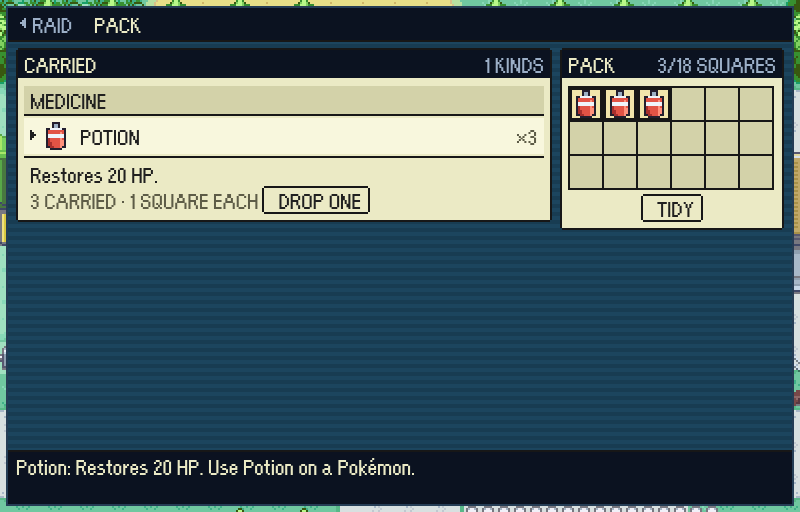
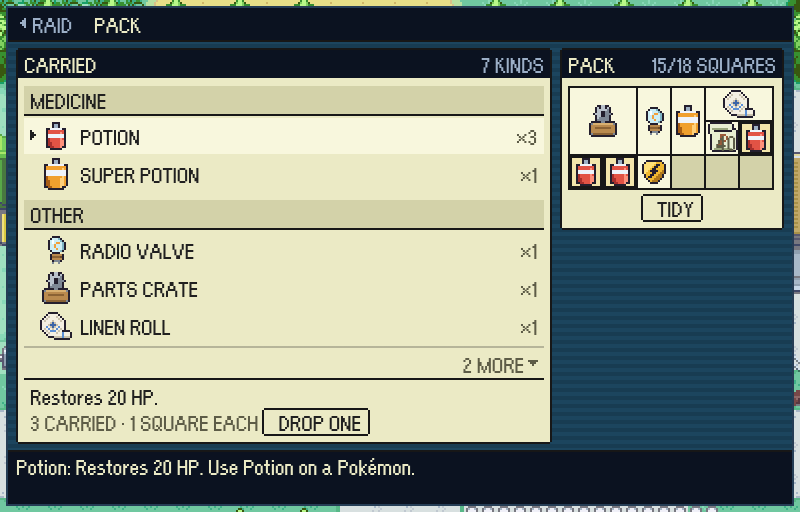
README: fuller pack shot, cleaner walk at 15fps, chase starts on screen, glossary headers, pitch wraps on phones

diff --git a/docs/readme/README.md b/docs/readme/README.md
@@ -13,11 +13,11 @@ number of screen pixels to the game pixel and stays sharp on a high-density disp
 |---|---|---|
 | `hero.svg` | The animated banner: Viridian City drifting by at dusk, the title plate, the raid clock gone red, and Blue chasing the player along the bottom | `tools/readme/drawArt.mjs` |
 | `cast.png` | The four keepers of the base and the five rivals, off the sheets the game draws them from | `tools/readme/drawArt.mjs` |
-| `walk.webp` | A walk down Viridian City's Main Street, one frame per 50ms of game time | `tools/playtest/readmeShots.mjs`, then ffmpeg |
+| `walk.webp` | A walk from the Pokemon Center up Main Street, fifteen frames a second of game time, ending where a townsperson steps into the lane | `tools/playtest/readmeShots.mjs`, then ffmpeg |
 | `raid.png`, `hunter.png`, `battle.png` | A raid in Viridian City, Blue arriving, and the fight he starts (1600x1024) | `readmeShots.mjs --window=1600x1024` |
 | `harbour.png` | The base with every one of Brock's upgrades built (1600x1024) | `readmeShots.mjs --part=base --window=1600x1024` |
 | `brocks-workshop.png` | Inside Brock's Workshop, every bay built (800x512) | `readmeShots.mjs --part=base --rooms=brocks-workshop` |
-| `loadout.png`, `pack.png` | Kitting up in Oak's Lab, and the pack opened mid-raid (800x512) | `readmeShots.mjs` |
+| `loadout.png`, `pack.png` | Kitting up in Oak's Lab, and the pack opened mid-raid with a few finds put in the raid's own bag first: a crate, a roll of linen, a valve, a Super Potion, a Thunder Stone and ₽40 (800x512) | `readmeShots.mjs` |
 | `map-maker.png` | The map maker with the sample map open at 1X (1600x1000) | `readmeShots.mjs --part=maker --window=1600x1000` |
 | `extracted.png`, `raid-lost.png` | The two ways a raid ends (800x512) | `tools/playtest/raid.mjs --pixels --stepped --window=800x512 --shot=...` (`--seed=3 --level=12` walked out; `--seed=7` went down) |
 
@@ -39,14 +39,14 @@ node tools/playtest/readmeShots.mjs "$URL" "$SCRATCH/big" --part=base --window=1
 node tools/playtest/readmeShots.mjs "$URL" "$SCRATCH/shots" --part=base --rooms=brocks-workshop
 node tools/playtest/readmeShots.mjs "$URL" "$SCRATCH/big" --part=maker --window=1600x1000
 
-# The walk, lossless, at the 20 frames a second it was photographed at.
-ffmpeg -framerate 20 -i "$SCRATCH/shots/frames/%03d.png" -c:v libwebp_anim -lossless 1 \
-  -compression_level 6 -loop 0 docs/readme/walk.webp
+# The walk, lossless, at the 15 frames a second it was photographed at.
+ffmpeg -framerate 15 -i "$SCRATCH/shots/frames/%03d.png" -c:v libwebp_anim -lossless 1 \
+  -compression_level 4 -loop 0 docs/readme/walk.webp
 
 # The banner and the cast, set by the game's own text (so it needs the build too).
 npx vite-node tools/tileset/renderMap.mts -- viridian-city "$SCRATCH/viridian-city.png" 1
 node tools/readme/drawArt.mjs "$SCRATCH/viridian-city.png" "$URL"
 ```
 
-Keep every file well under a megabyte; the walk is the heavy one, and is lossless WebP because a
-GIF of the same frames is four times the size.
+Keep every file well under a megabyte; the walk is the heavy one (about 550KB), and is lossless
+WebP because a GIF of the same frames is several times the size.

diff --git a/README.md b/README.md
@@ -6,9 +6,9 @@
 
 <p align="center">
   <b>Kanto, but it's a heist.</b><br>
-  Drop into a town with five minutes on the clock, grab everything that isn't nailed down,<br>
-  and get out before time runs out or your rival catches up. Whatever you carry out is yours.<br>
-  Whatever you don't... well. Blue says thanks.
+  Drop into a town with five minutes on the clock, grab everything that isn't nailed down, and get
+  out before time runs out or your rival catches up. Whatever you carry out is yours. Whatever you
+  don't... well. Blue says thanks.
 </p>
 
 <p align="center">
@@ -35,7 +35,7 @@
 **Escape from Pallet Town** is a Pokémon-flavoured *extraction* game that runs in your browser. You
 never played an extraction game? Lucky you, here is the whole genre in five words:
 
-| | |
+| Word | What it means |
 |---|---|
 | **Raid** | One trip out into the world, on a five-minute clock. |
 | **Extraction** | Walking out through an exit before the clock hits zero. It is the only way to keep anything. |
@@ -46,7 +46,7 @@ never played an extraction game? Lucky you, here is the whole genre in five word
 That's it. Go out, get greedy, come home. Or don't come home, and learn something about greed.
 
 <p align="center">
-  <img src="docs/readme/walk.webp" width="800" alt="A raid in Viridian City: the trainer walks down Main Street past the Gym, the raid clock ticking down in the corner.">
+  <img src="docs/readme/walk.webp" width="800" alt="A raid in Viridian City: the trainer walks from the Pokemon Center up Main Street towards the Gym, the raid clock ticking down in the corner.">
 </p>
 
 ## How a raid goes
